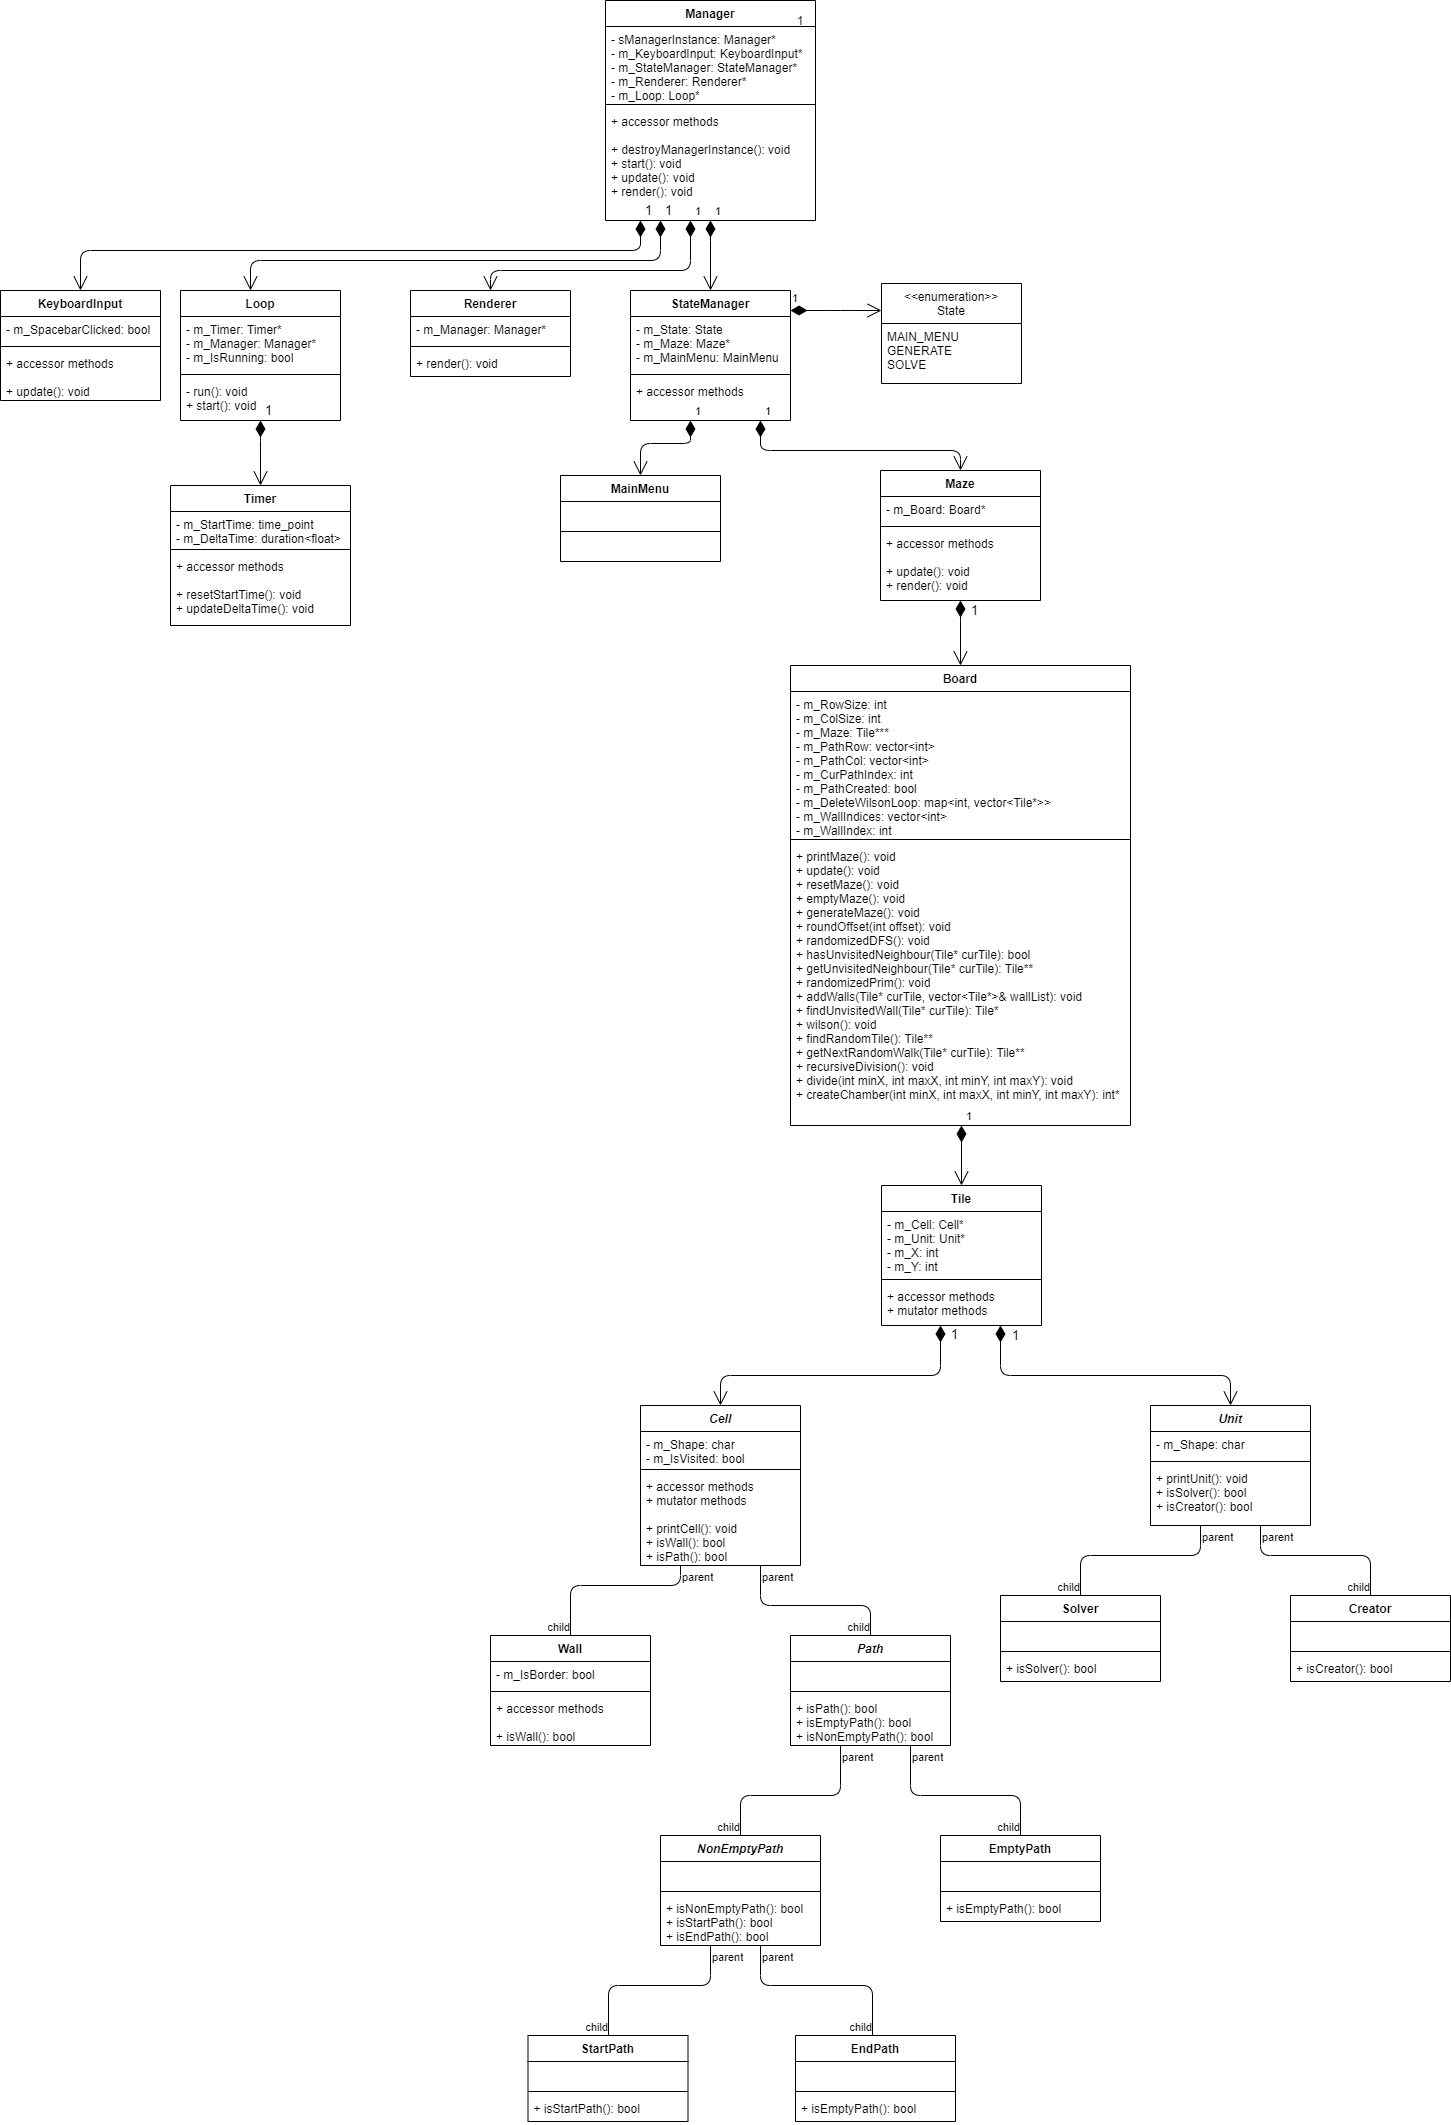
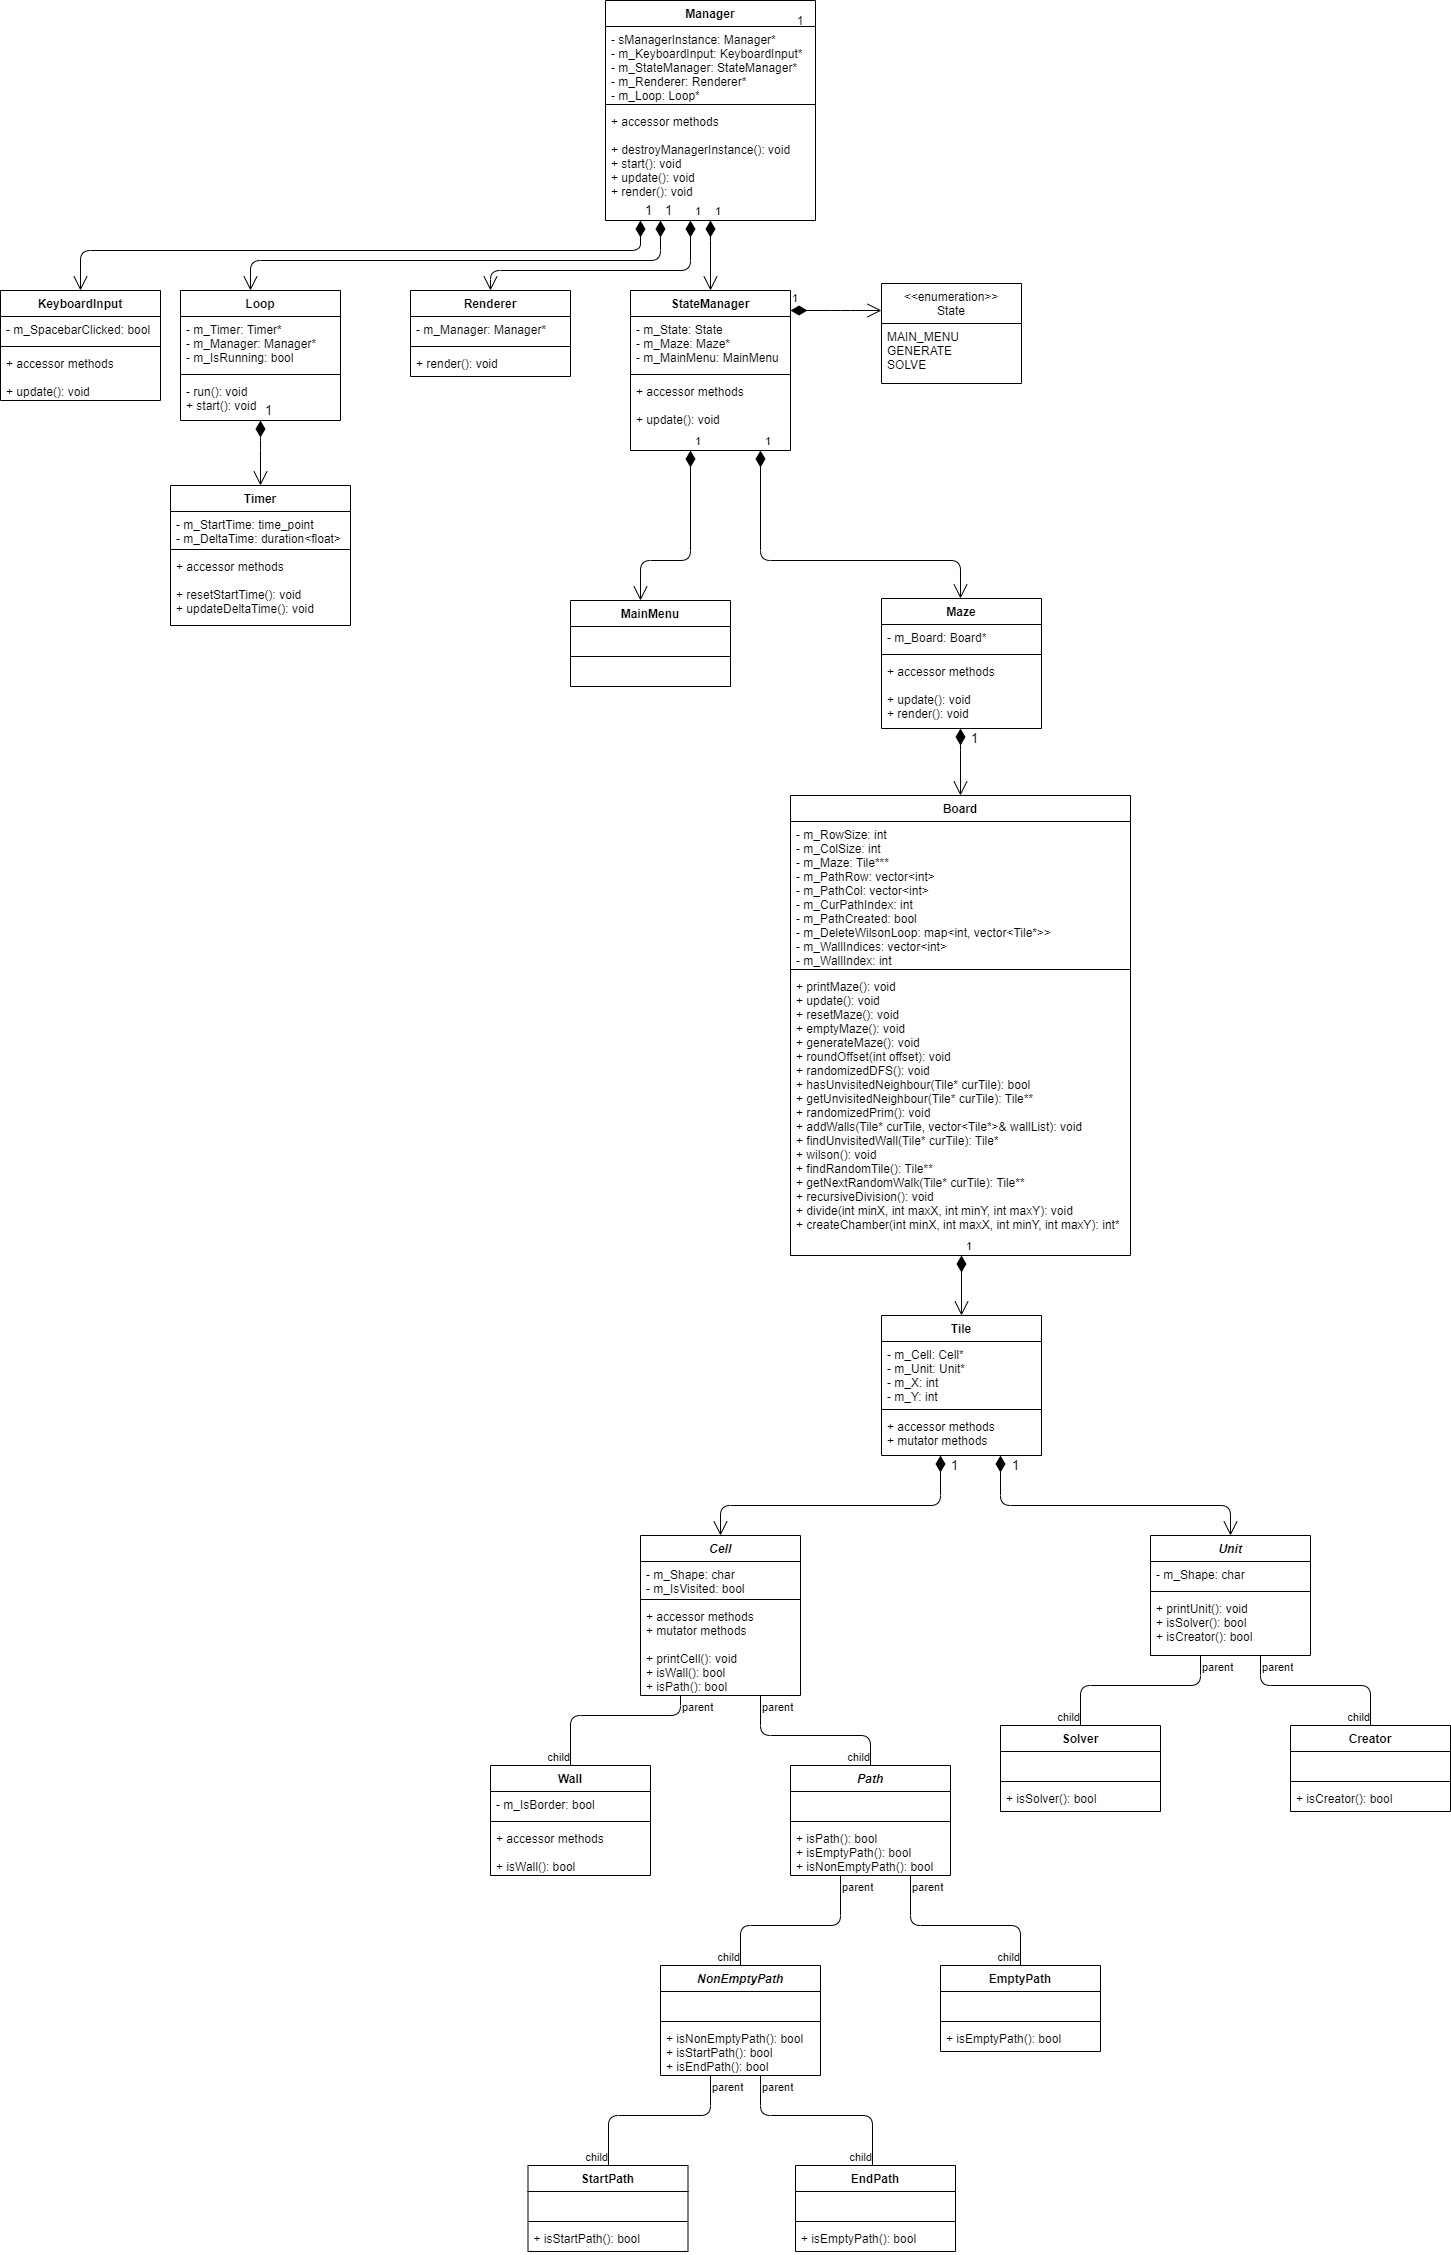
ver0027 more new layout implemented

diff --git a/maze/state_manager.cpp b/maze/state_manager.cpp
@@ -2,13 +2,26 @@
 
 #include "state_manager.h"
 #include "maze.h"
+#include "main_menu.h"
+
+enum State {
+	MAIN_MENU,
+	GENERATE,
+	SOLVE
+};
 
 StateManager::StateManager() {
+	m_State = GENERATE;
 	m_Maze = new Maze();
+	m_MainMenu = new MainMenu();
 }
 
 StateManager::~StateManager() {}
 
 Maze* StateManager::getMaze() {
 	return m_Maze;
+}
+
+void StateManager::update() {
+	m_Maze->update();
 }

diff --git a/maze/state_manager.h b/maze/state_manager.h
@@ -1,17 +1,23 @@
 #ifndef STATE_MANAGER_H
 #define STATE_MANAGER_H
 
+enum State;
 class Maze;
+class MainMenu;
 
 class StateManager {
 private:
+	State m_State;
 	Maze* m_Maze;
+	MainMenu* m_MainMenu;
 public:
 	StateManager();
 	StateManager(const StateManager&) = delete;
 	virtual ~StateManager();
 
 	Maze* getMaze();
+
+	void update();
 };
 
 #endif

diff --git a/maze/manager.cpp b/maze/manager.cpp
@@ -41,7 +41,7 @@ void Manager::start() {
 }
 
 void Manager::update() {
-	if (m_KeyboardInput->getSpacebarClicked()) m_StateManager->getMaze()->update();
+	if (m_KeyboardInput->getSpacebarClicked()) m_StateManager->update();
 	m_KeyboardInput->update();
 }
 

diff --git a/maze/main_menu.h b/maze/main_menu.h
@@ -1,0 +1,12 @@
+#ifndef MAIN_MENU_H
+#define MAIN_MENU_H
+
+class MainMenu {
+private:
+public:
+	MainMenu();
+	MainMenu(const MainMenu&) = delete;
+	virtual ~MainMenu();
+};
+
+#endif

diff --git a/maze/main_menu.cpp b/maze/main_menu.cpp
@@ -1,0 +1,9 @@
+#include <iostream>
+
+#include "main_menu.h"
+
+MainMenu::MainMenu() {
+
+}
+
+MainMenu::~MainMenu() {}
